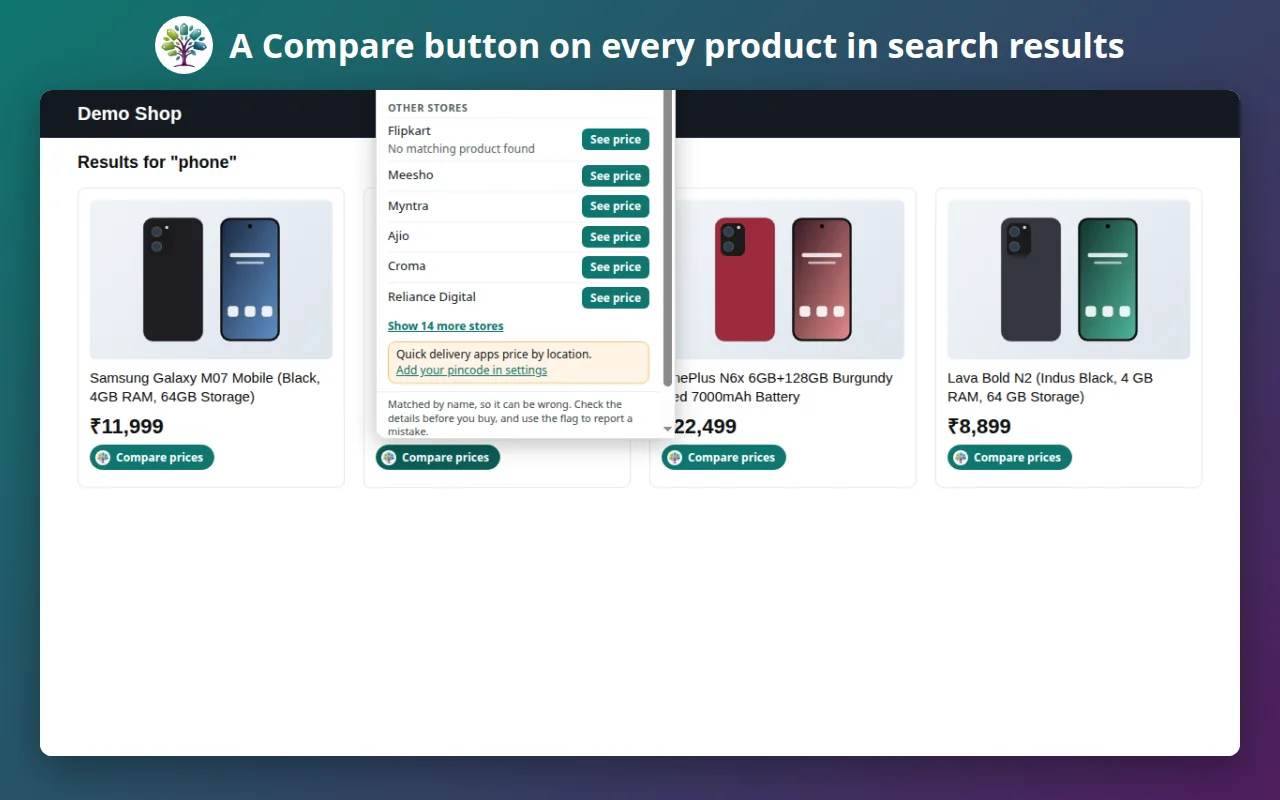
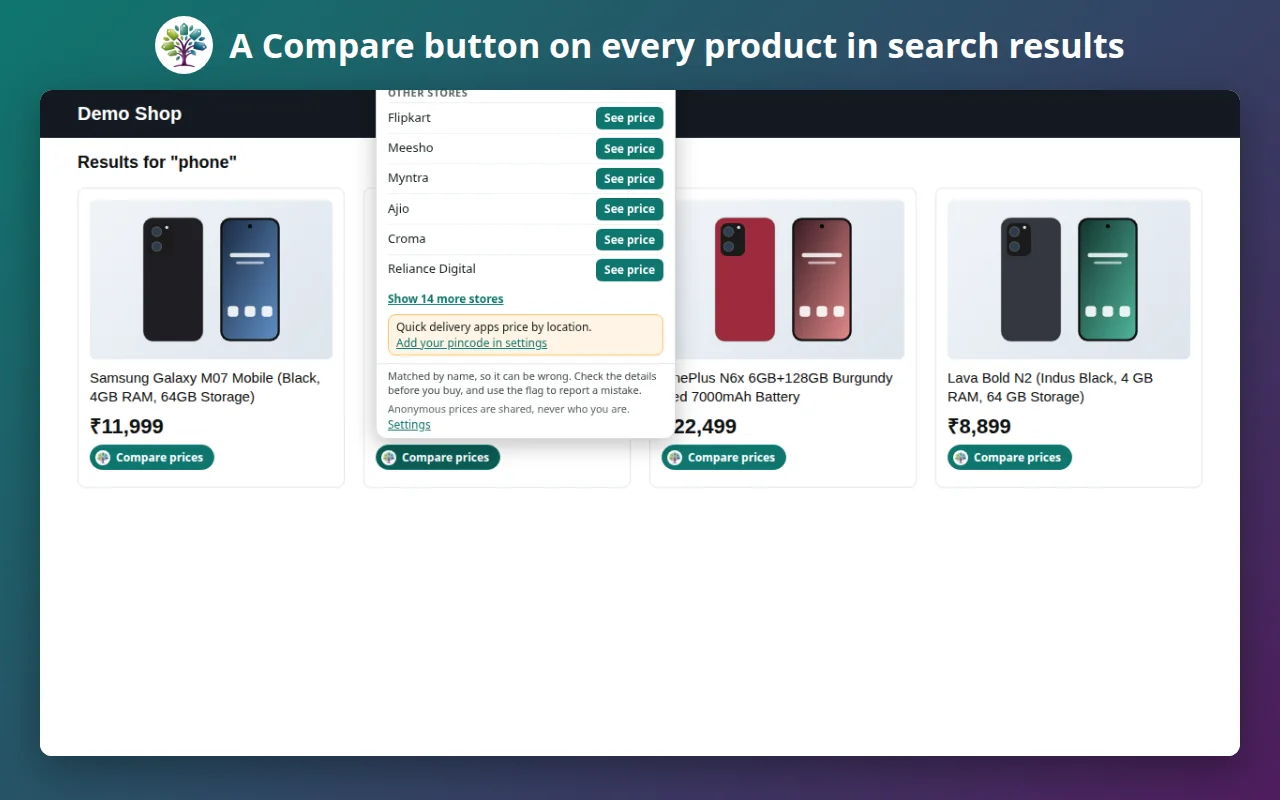
PryceHunt page: match the shipped extension (no live prices, no Telegram) and refresh the pictures
PryceHunt's "Show the price here instead of a link" is hidden until it can really work, Telegram alerts
are removed, and the box's wording changed, so the page now says only what the extension does.

- "Check other stores in one click" (was "See other stores' prices without leaving the page"): the box
  lists the other stores; pressing one opens that store's page searching for the same product; on the
  grocery apps PryceHunt opens the exact page once people who share prices have confirmed it (said to
  start small and grow). No live prices, no "likely the same product" labels.
- Share: "Share a product with family and friends": WhatsApp, copy or save the picture; no Telegram.
- Alerts: the Telegram bullet is gone; the sale watch text no longer offers other sites; the answer on
  alerts and a closed browser says what really happens (a notification while the browser is open).
- Settings text: price sharing is on by default and the one exception; price alerts, sale dates and your
  area are separate switches.
- Matches: the "likely the same product" / "similar" wording is replaced by "a store's results can be wrong,
  check the details and use the flag". "Not affiliated with any store or with Telegram" is now "any store".
- Money: the page no longer says PryceHunt may earn a commission from a cheaper store; no affiliate account
  is set up and every link is plain today, so it says that, and that any future affiliate link would be added
[…]

Changed region(s): [[0.2812, 0.0938, 0.5312, 0.5625]]

diff --git a/prycehunt/index.html b/prycehunt/index.html
@@ -4,14 +4,14 @@
 <meta charset="utf-8">
 <meta name="viewport" content="width=device-width, initial-scale=1">
 <title>PryceHunt: compare prices across Indian stores | Purple Wonton</title>
-<meta name="description" content="PryceHunt is a Chrome and Edge extension that shows what the product you are viewing costs at other Indian stores, with price history, honest sale facts and price-drop alerts. No account, no ads, no tracking.">
+<meta name="description" content="PryceHunt is a Chrome and Edge extension that takes you from a product to the same product at other Indian stores in one click, with price history, honest sale facts and price-drop alerts. No account, no ads, no tracking.">
 <link rel="canonical" href="https://www.purplewonton.com/prycehunt/">
 
 <link rel="icon" href="../assets/favicon-32.png" sizes="32x32">
 <link rel="apple-touch-icon" href="../assets/apple-touch-icon.png">
 <meta property="og:type" content="website">
 <meta property="og:title" content="PryceHunt: compare prices across Indian stores | Purple Wonton">
-<meta property="og:description" content="PryceHunt is a Chrome and Edge extension that shows what the product you are viewing costs at other Indian stores, with price history, honest sale facts and price-drop alerts. No account, no ads, no tracking.">
+<meta property="og:description" content="PryceHunt is a Chrome and Edge extension that takes you from a product to the same product at other Indian stores in one click, with price history, honest sale facts and price-drop alerts. No account, no ads, no tracking.">
 <meta property="og:url" content="https://www.purplewonton.com/prycehunt/">
 <meta property="og:image" content="https://www.purplewonton.com/assets/og-prycehunt.jpg">
 <meta property="og:site_name" content="Purple Wonton">
@@ -19,7 +19,7 @@
 <meta name="twitter:card" content="summary_large_image">
 <meta name="robots" content="index, follow">
 <meta name="theme-color" content="#7140e0">
-<script type="application/ld+json">{"@context": "https://schema.org", "@graph": [{"@type": "Organization", "@id": "https://www.purplewonton.com/#org", "name": "Purple Wonton", "url": "https://www.purplewonton.com/", "logo": "https://www.purplewonton.com/assets/mark.png", "email": "support@purplewonton.com", "description": "Purple Wonton is a technology studio in Bengaluru, India, building software, AI and automation products.", "address": {"@type": "PostalAddress", "addressLocality": "Bengaluru", "addressRegion": "Karnataka", "addressCountry": "IN"}}, {"@type": "SoftwareApplication", "name": "PryceHunt: price comparison for Indian stores", "url": "https://www.purplewonton.com/prycehunt/", "inLanguage": "en", "applicationCategory": "ShoppingApplication", "operatingSystem": "Chrome or Edge on Windows, macOS, Linux and ChromeOS", "description": "PryceHunt is a Chrome and Edge extension that shows what the product you are viewing costs at other Indian stores, with price history, honest sale facts and price-drop alerts. No account, no ads, no tracking.", "image": "https://www.purplewonton.com/assets/og-prycehunt.jpg", "screenshot": "https://www.purplewonton.com/assets/shots/prycehunt/comparison-box.webp", "publisher": {"@id": "https://www.purplewonton.com/#org"}, "offers": {"@type": "Offer", "name": "Free during launch", "price": "0", "priceCurrency": "INR"}}, {"@type": "FAQPage", "inLanguage": "en", "mainEntity": [{"@type": "Question", "name": "Is PryceHunt free?", "acceptedAnswer": {"@type": "Answer", "text": "Yes, while it is being launched. If a paid plan with higher limits comes later, we will tell you well before anything changes."}}, {"@type": "Question", "name": "Which browsers does it work in?", "acceptedAnswer": {"@type": "Answer", "text": "Chrome and Edge on a computer. Other browsers may come later."}}, {"@type": "Question", "name": "Do I need an account?", "acceptedAnswer": {"@type": "Answer", "text": "No. You never sign in, and your settings stay in your browser."}}, {"@type": "Question", "name": "How accurate are the matches?", "acceptedAnswer": {"@type": "Answer", "text": "PryceHunt matches products by name, so it can be wrong: a different size, colour or model can look the same. It labels each match as “likely the same product” or “similar: check details”, and you can flag a wrong match or price."}}, {"@type": "Question", "name": "Does PryceHunt see what I browse?", "acceptedAnswer": {"@type": "Answer", "text": "On the shopping sites it works on, it reads the product name and price on the page you are viewing, on your computer. With anonymous price sharing, which is on by default and can be switched off in Settings, it sends the store, product code, price and day of the products you view, never who you are, your pincode or the page address. Other features that send anything are off until you switch them on."}}, {"@type": "Question", "name": "Can I switch off price sharing?", "acceptedAnswer": {"@type": "Answer", "text": "Yes. Open PryceHunt's settings, go to Privacy and data, and untick “Share anonymous prices”. The welcome screen shown at install explains what it sends."}}, {"@type": "Question", "name": "Why can't alerts arrive while my browser is closed?", "acceptedAnswer": {"@type": "Answer", "text": "The price checks run in your browser, so they need it open. You can also let PryceHunt watch for you while the browser is closed, using prices that PryceHunt users share anonymously, and receive alerts on Telegram; this can miss some drops."}}, {"@type": "Question", "name": "Does PryceHunt earn money from my purchases?", "acceptedAnswer": {"@type": "Answer", "text": "It may. When you click “Go to this store” and the store is cheaper or has an offer, PryceHunt may open an affiliate link that earns us a commission at no cost to you. It says so next to the button, and the link is added only when you click."}}, {"@type": "Question", "name": "How do I get in touch?", "acceptedAnswer": {"@type": "Answer", "text": "Write to support@purplewonton.com."}}]}]}</script>
+<script type="application/ld+json">{"@context": "https://schema.org", "@graph": [{"@type": "Organization", "@id": "https://www.purplewonton.com/#org", "name": "Purple Wonton", "url": "https://www.purplewonton.com/", "logo": "https://www.purplewonton.com/assets/mark.png", "email": "support@purplewonton.com", "description": "Purple Wonton is a technology studio in Bengaluru, India, building software, AI and automation products.", "address": {"@type": "PostalAddress", "addressLocality": "Bengaluru", "addressRegion": "Karnataka", "addressCountry": "IN"}}, {"@type": "SoftwareApplication", "name": "PryceHunt: price comparison for Indian stores", "url": "https://www.purplewonton.com/prycehunt/", "inLanguage": "en", "applicationCategory": "ShoppingApplication", "operatingSystem": "Chrome or Edge on Windows, macOS, Linux and ChromeOS", "description": "PryceHunt is a Chrome and Edge extension that takes you from a product to the same product at other Indian stores in one click, with price history, honest sale facts and price-drop alerts. No account, no ads, no tracking.", "image": "https://www.purplewonton.com/assets/og-prycehunt.jpg", "screenshot": "https://www.purplewonton.com/assets/shots/prycehunt/comparison-box.webp", "publisher": {"@id": "https://www.purplewonton.com/#org"}, "offers": {"@type": "Offer", "name": "Free during launch", "price": "0", "priceCurrency": "INR"}}, {"@type": "FAQPage", "inLanguage": "en", "mainEntity": [{"@type": "Question", "name": "Is PryceHunt free?", "acceptedAnswer": {"@type": "Answer", "text": "Yes, while it is being launched. If a paid plan with higher limits comes later, we will tell you well before anything changes."}}, {"@type": "Question", "name": "Which browsers does it work in?", "acceptedAnswer": {"@type": "Answer", "text": "Chrome and Edge on a computer. Other browsers may come later."}}, {"@type": "Question", "name": "Do I need an account?", "acceptedAnswer": {"@type": "Answer", "text": "No. You never sign in, and your settings stay in your browser."}}, {"@type": "Question", "name": "How accurate are the matches?", "acceptedAnswer": {"@type": "Answer", "text": "PryceHunt finds products by name, so a store's results can be wrong: a different size, colour or model can look similar. Always check the details on the store's page before you buy, and use the flag to report a wrong match."}}, {"@type": "Question", "name": "Does PryceHunt see what I browse?", "acceptedAnswer": {"@type": "Answer", "text": "On the shopping sites it works on, it reads the product name and price on the page you are viewing, on your computer. With anonymous price sharing, which is on by default and can be switched off in Settings, it sends the store, product code, price and day of the products you view, never who you are, your pincode or the page address. Other features that send anything are off until you switch them on."}}, {"@type": "Question", "name": "Can I switch off price sharing?", "acceptedAnswer": {"@type": "Answer", "text": "Yes. Open PryceHunt's settings, go to Privacy and data, and untick “Share anonymous prices”. The welcome screen shown at install explains what it sends."}}, {"@type": "Question", "name": "Why can't alerts arrive while my browser is closed?", "acceptedAnswer": {"@type": "Answer", "text": "The price checks run in your browser, so they need it open. When it is, and you allowed notifications, PryceHunt shows a notification if the price drops."}}, {"@type": "Question", "name": "Does PryceHunt earn money from my purchases?", "acceptedAnswer": {"@type": "Answer", "text": "Not at the moment: every link PryceHunt opens is a plain link. If we ever add affiliate links, they would be added only when you click, only for stores whose rules allow it, and PryceHunt would say so next to the button."}}, {"@type": "Question", "name": "How do I get in touch?", "acceptedAnswer": {"@type": "Answer", "text": "Write to support@purplewonton.com."}}]}]}</script>
 <link rel="stylesheet" href="../assets/site.css">
 </head>
 <body>
@@ -43,23 +43,23 @@
   <div>
     <p class="title"><img src="../assets/prycehunt-icon.png" width="44" height="44" alt="">PryceHunt for Chrome and Edge</p>
     <h1>Compare prices across Indian stores, right on the page</h1>
-    <p class="lead">PryceHunt shows what the product you are looking at costs at other stores, how its price has moved, and whether that big discount is real. No account, no ads, no tracking: your pincode, settings and watch-list stay in your browser.</p>
+    <p class="lead">PryceHunt takes you from the product you are looking at to the same product at other stores in one click, shows how its price has moved, and whether that big discount is real. No account, no ads, no tracking: your pincode, settings and watch-list stay in your browser.</p>
     <div class="actions">
       <span class="btn" aria-disabled="true">Coming soon to the Chrome Web Store</span>
       <a class="btn ghost" href="#features">See what it does</a>
     </div>
   </div>
-  <img class="hero-shot" src="../assets/shots/prycehunt/comparison-box.webp?v=a1d2b999" width="1280" height="800" alt="PryceHunt&#x27;s comparison box on a product page, showing a cheaper price at another store">
+  <img class="hero-shot" src="../assets/shots/prycehunt/comparison-box.webp?v=b62420be" width="1280" height="800" alt="PryceHunt&#x27;s comparison box on a product page, with a button for each other store">
 </section>
 
 <div class="wrap" id="features">
   <section class="feature wide">
     <div>
-      <h2>See other stores' prices without leaving the page</h2>
-      <p>A small box under the price opens the comparison. Switch on “Show the price here instead of a link” and PryceHunt shows the other store's price in the box, marked “likely the same product” or “similar: check details”. You can switch that on or off right there.</p>
-      <ul class="points"><li>Live prices today for Amazon.in and Flipkart; the other stores open their own search</li><li>The cheapest store found is called out, and you can list the lowest price first</li><li>Quick-delivery apps are included, with prices per 100 g, per 100 ml or per piece</li></ul>
+      <h2>Check other stores in one click</h2>
+      <p>A small box under the price lists the other stores. Press a store's button and its page opens, searching for the same product. On the quick-delivery grocery apps, PryceHunt learns from people who share prices which page is exactly the same product, and then opens that page directly. That list starts small and grows as more people use PryceHunt.</p>
+      <ul class="points"><li>Amazon.in, Flipkart, Meesho, Myntra, Ajio, Croma and the grocery apps Blinkit, Zepto, BigBasket and Swiggy Instamart</li><li>Grocery searches keep the brand and pack size, and unit prices show per 100 g, per 100 ml or per piece</li><li>You choose which stores to show, and in what order</li></ul>
     </div>
-    <div class="shot-wrap wide"><img src="../assets/shots/prycehunt/comparison-box.webp?v=a1d2b999" width="1280" height="800" loading="lazy" alt="PryceHunt&#x27;s comparison box on a product page, showing a cheaper price at another store"></div>
+    <div class="shot-wrap wide"><img src="../assets/shots/prycehunt/comparison-box.webp?v=b62420be" width="1280" height="800" loading="lazy" alt="PryceHunt&#x27;s comparison box on a product page, with a button for each other store"></div>
   </section>
   <section class="feature wide flip">
     <div>
@@ -67,7 +67,7 @@
       <p>On search, category and home pages, and on the similar items of a product page, every product gets a small “Compare prices” button. Nothing is fetched until you press one.</p>
       <ul class="points"><li>Amazon.in, Flipkart, Meesho, Myntra, Ajio and Croma</li><li>Blinkit, Zepto, BigBasket and Swiggy Instamart</li><li>Pause it for 30 minutes to 23 hours, on one site or on all sites</li></ul>
     </div>
-    <div class="shot-wrap wide"><img src="../assets/shots/prycehunt/compare-buttons.webp?v=eef547c0" width="1280" height="800" loading="lazy" alt="A search results page where every product has a small Compare prices button, and one comparison is open"></div>
+    <div class="shot-wrap wide"><img src="../assets/shots/prycehunt/compare-buttons.webp?v=e3258f28" width="1280" height="800" loading="lazy" alt="A search results page where every product has a small Compare prices button, and one comparison is open"></div>
   </section>
   <section class="feature wide">
     <div>
@@ -75,31 +75,31 @@
       <p>PryceHunt remembers the prices you have seen and charts them. It shows the lowest price seen, checks a “70% off” claim against what the product has usually cost, and during big sales such as Diwali tells you what the product cost before the sale began.</p>
       <ul class="points"><li>No verdict and no pressure: it states the facts and you decide</li><li>Sale dates are the usual timing, because shops announce theirs late; you can choose the seasons to follow and add your own</li><li>Shared history, built from prices that PryceHunt users share anonymously (on by default; you can switch it off)</li></ul>
     </div>
-    <div class="shot-wrap wide"><img src="../assets/shots/prycehunt/sale-facts.webp?v=ca1586d4" width="1280" height="800" loading="lazy" alt="PryceHunt&#x27;s price history chart, the check of a 70 percent off claim and the price before a sale"></div>
+    <div class="shot-wrap wide"><img src="../assets/shots/prycehunt/sale-facts.webp?v=61e355aa" width="1280" height="800" loading="lazy" alt="PryceHunt&#x27;s price history chart, the check of a 70 percent off claim and the price before a sale"></div>
   </section>
   <section class="feature wide flip">
     <div>
       <h2>Your choices, in clear settings</h2>
-      <p>Live prices, alerts, Telegram and every other feature that contacts anything are off until you switch them on, and each setting says what is sent. Anonymous price sharing is the one exception: it is on by default, and you can switch it off. Choose your stores and their order, where the box appears, and how it behaves.</p>
-      <ul class="points"><li>No account to make</li><li>Live prices, alerts, price sharing and Telegram are separate switches</li><li>Erase everything with one button</li></ul>
+      <p>Everything else that contacts anything is off until you switch it on, and each setting says what is sent. Anonymous price sharing is the one exception: it is on by default, and you can switch it off. Choose your stores and their order, where the box appears, and how it behaves.</p>
+      <ul class="points"><li>No account to make</li><li>Price sharing, price alerts, sale dates and your area are separate switches</li><li>Erase everything with one button</li></ul>
     </div>
     <div class="shot-wrap wide"><img src="../assets/shots/prycehunt/settings.webp?v=1f218a94" width="1280" height="800" loading="lazy" alt="PryceHunt&#x27;s settings page, divided into General, Stores, Prices and alerts, and Privacy and data"></div>
   </section>
   <section class="feature wide">
     <div>
       <h2>Pause, watch and get alerts</h2>
-      <p>The toolbar menu pauses PryceHunt for a while, keeps your watch-list and lets you set your pincode. Set an alert price or range for a product, choose which sites to watch during a sale, and get a notification when it drops.</p>
-      <ul class="points"><li>Alerts are checked while your browser is open. Some stores, such as Amazon.in, do not allow automatic checks, so those prices update when you open the product</li><li>Optional alerts on Telegram, to reach your phone</li></ul>
+      <p>The toolbar menu pauses PryceHunt for a while, keeps your watch-list and lets you set your pincode. Set an alert price or range for a product, choose when to watch it during a sale season, and get a notification when it drops.</p>
+      <ul class="points"><li>Alerts are checked while your browser is open. Some stores, such as Amazon.in, do not allow automatic checks, so those prices update when you open the product</li></ul>
     </div>
     <div class="shot-wrap wide"><img src="../assets/shots/prycehunt/toolbar-menu.webp?v=cb71aa10" width="1280" height="800" loading="lazy" alt="PryceHunt&#x27;s toolbar menu, with pause, the watch-list and a pincode box"></div>
   </section>
   <section class="feature wide flip">
     <div>
-      <h2>Share a comparison with family and friends</h2>
-      <p>Pressing Share makes a picture and a short message of the comparison, ready for WhatsApp or Telegram. It contains the product and prices only, nothing about you.</p>
+      <h2>Share a product with family and friends</h2>
+      <p>Pressing Share makes a picture and a short message about the product, ready for WhatsApp, or you can copy or save the picture. It contains the product and its price only, nothing about you.</p>
       
     </div>
-    <div class="shot-wrap wide"><img src="../assets/shots/prycehunt/share-card.webp?v=2b724920" width="1280" height="800" loading="lazy" alt="A PryceHunt share card comparing the price of a phone at three stores"></div>
+    <div class="shot-wrap wide"><img src="../assets/shots/prycehunt/share-card.webp?v=57a2c881" width="1280" height="800" loading="lazy" alt="A PryceHunt share card for a phone at Flipkart, with its price and the lowest-price note"></div>
   </section>
 
   <section class="promise">
@@ -108,7 +108,7 @@
   </section>
 
   <section class="feature-lists">
-    <div><h2>Good to know</h2><ul class="points"><li>Products are matched by name, so a match can be wrong. Always check the details before you buy, and flag a wrong match or price.</li><li>When you click “Go to this store”, PryceHunt may add an affiliate link that earns us a commission at no cost to you, and it says so next to the button.</li><li>PryceHunt is independent and is not affiliated with any store or with Telegram.</li></ul></div>
+    <div><h2>Good to know</h2><ul class="points"><li>Products are found by name, so a store's results can be wrong. Always check the details on the store's page before you buy, and flag a wrong match.</li><li>Every link PryceHunt opens is a plain link today. If we ever add affiliate links that earn us a commission at no cost to you, they would be added only when you click, only for stores whose rules allow it, and we would say so next to the button.</li><li>PryceHunt is independent and is not affiliated with any store.</li></ul></div>
     <div><h2>Works on</h2><p>Amazon.in, Flipkart, Meesho, Myntra, Ajio, Croma, Blinkit, Zepto, BigBasket and Swiggy Instamart. More Indian stores are added over time.</p>
          <h2 style="margin-top:28px">Free during launch</h2><p>PryceHunt is free while it is being launched. If a paid plan with higher limits is introduced later, we will say so well before anything changes.</p>
          <div class="actions"><span class="btn" aria-disabled="true">Coming soon to the Chrome Web Store</span></div></div>
@@ -119,11 +119,11 @@
     <details><summary>Is PryceHunt free?</summary><p>Yes, while it is being launched. If a paid plan with higher limits comes later, we will tell you well before anything changes.</p></details>
     <details><summary>Which browsers does it work in?</summary><p>Chrome and Edge on a computer. Other browsers may come later.</p></details>
     <details><summary>Do I need an account?</summary><p>No. You never sign in, and your settings stay in your browser.</p></details>
-    <details><summary>How accurate are the matches?</summary><p>PryceHunt matches products by name, so it can be wrong: a different size, colour or model can look the same. It labels each match as “likely the same product” or “similar: check details”, and you can flag a wrong match or price.</p></details>
+    <details><summary>How accurate are the matches?</summary><p>PryceHunt finds products by name, so a store's results can be wrong: a different size, colour or model can look similar. Always check the details on the store's page before you buy, and use the flag to report a wrong match.</p></details>
     <details><summary>Does PryceHunt see what I browse?</summary><p>On the shopping sites it works on, it reads the product name and price on the page you are viewing, on your computer. With anonymous price sharing, which is on by default and can be switched off in Settings, it sends the store, product code, price and day of the products you view, never who you are, your pincode or the page address. Other features that send anything are off until you switch them on.</p></details>
     <details><summary>Can I switch off price sharing?</summary><p>Yes. Open PryceHunt's settings, go to Privacy and data, and untick “Share anonymous prices”. The welcome screen shown at install explains what it sends.</p></details>
-    <details><summary>Why can't alerts arrive while my browser is closed?</summary><p>The price checks run in your browser, so they need it open. You can also let PryceHunt watch for you while the browser is closed, using prices that PryceHunt users share anonymously, and receive alerts on Telegram; this can miss some drops.</p></details>
-    <details><summary>Does PryceHunt earn money from my purchases?</summary><p>It may. When you click “Go to this store” and the store is cheaper or has an offer, PryceHunt may open an affiliate link that earns us a commission at no cost to you. It says so next to the button, and the link is added only when you click.</p></details>
+    <details><summary>Why can't alerts arrive while my browser is closed?</summary><p>The price checks run in your browser, so they need it open. When it is, and you allowed notifications, PryceHunt shows a notification if the price drops.</p></details>
+    <details><summary>Does PryceHunt earn money from my purchases?</summary><p>Not at the moment: every link PryceHunt opens is a plain link. If we ever add affiliate links, they would be added only when you click, only for stores whose rules allow it, and PryceHunt would say so next to the button.</p></details>
     <details><summary>How do I get in touch?</summary><p>Write to <a href="mailto:support@purplewonton.com">support@purplewonton.com</a>.</p></details>
     <p class="fine" style="margin-top:20px">More answers on the <a href="../support/">support page</a>.</p>
   </section>

diff --git a/ja/index.html b/ja/index.html
@@ -99,13 +99,13 @@
       <img class="icon" src="../assets/prycehunt-icon.png" width="56" height="56" alt="">
       <p class="kind">Chrome and Edge extension</p>
       <h3 class="product-name">PryceHunt</h3>
-      <p class="lead">Looking at a product and wondering whether another store sells it for less? PryceHunt shows the price at other Indian stores right on the page, with price history and honest facts about sales. No account, no ads, no tracking.</p>
+      <p class="lead">Looking at a product and wondering whether another store sells it for less? PryceHunt puts a button for each Indian store right on the page, so you can check in one click, with price history and honest facts about sales. No account, no ads, no tracking.</p>
       <div class="actions">
         <a class="btn" href="../prycehunt/">PryceHunt を見る</a>
         <span class="fine">Free during launch</span>
       </div>
     </div>
-    <img class="shot wide" src="../assets/shots/prycehunt/comparison-box.webp?v=a1d2b999" width="1280" height="800" loading="lazy" alt="PryceHunt&#x27;s comparison box on a product page, with a cheaper price found at another store">
+    <img class="shot wide" src="../assets/shots/prycehunt/comparison-box.webp?v=b62420be" width="1280" height="800" loading="lazy" alt="PryceHunt&#x27;s comparison box on a product page, with a button for each other store">
   </article>
   <p class="more">新しい製品を開発中です。次につくってほしいもののアイデアは <a href="mailto:support@purplewonton.com">support@purplewonton.com</a> までお寄せください。</p>
 </section>

diff --git a/fr/index.html b/fr/index.html
@@ -99,13 +99,13 @@
       <img class="icon" src="../assets/prycehunt-icon.png" width="56" height="56" alt="">
       <p class="kind">Chrome and Edge extension</p>
       <h3 class="product-name">PryceHunt</h3>
-      <p class="lead">Looking at a product and wondering whether another store sells it for less? PryceHunt shows the price at other Indian stores right on the page, with price history and honest facts about sales. No account, no ads, no tracking.</p>
+      <p class="lead">Looking at a product and wondering whether another store sells it for less? PryceHunt puts a button for each Indian store right on the page, so you can check in one click, with price history and honest facts about sales. No account, no ads, no tracking.</p>
       <div class="actions">
         <a class="btn" href="../prycehunt/">Découvrir PryceHunt</a>
         <span class="fine">Free during launch</span>
       </div>
     </div>
-    <img class="shot wide" src="../assets/shots/prycehunt/comparison-box.webp?v=a1d2b999" width="1280" height="800" loading="lazy" alt="PryceHunt&#x27;s comparison box on a product page, with a cheaper price found at another store">
+    <img class="shot wide" src="../assets/shots/prycehunt/comparison-box.webp?v=b62420be" width="1280" height="800" loading="lazy" alt="PryceHunt&#x27;s comparison box on a product page, with a button for each other store">
   </article>
   <p class="more">D’autres produits sont en préparation. Vos idées pour la suite sont les bienvenues à <a href="mailto:support@purplewonton.com">support@purplewonton.com</a>.</p>
 </section>

diff --git a/de/index.html b/de/index.html
@@ -99,13 +99,13 @@
       <img class="icon" src="../assets/prycehunt-icon.png" width="56" height="56" alt="">
       <p class="kind">Chrome and Edge extension</p>
       <h3 class="product-name">PryceHunt</h3>
-      <p class="lead">Looking at a product and wondering whether another store sells it for less? PryceHunt shows the price at other Indian stores right on the page, with price history and honest facts about sales. No account, no ads, no tracking.</p>
+      <p class="lead">Looking at a product and wondering whether another store sells it for less? PryceHunt puts a button for each Indian store right on the page, so you can check in one click, with price history and honest facts about sales. No account, no ads, no tracking.</p>
       <div class="actions">
         <a class="btn" href="../prycehunt/">PryceHunt entdecken</a>
         <span class="fine">Free during launch</span>
       </div>
     </div>
-    <img class="shot wide" src="../assets/shots/prycehunt/comparison-box.webp?v=a1d2b999" width="1280" height="800" loading="lazy" alt="PryceHunt&#x27;s comparison box on a product page, with a cheaper price found at another store">
+    <img class="shot wide" src="../assets/shots/prycehunt/comparison-box.webp?v=b62420be" width="1280" height="800" loading="lazy" alt="PryceHunt&#x27;s comparison box on a product page, with a button for each other store">
   </article>
   <p class="more">Weitere Produkte sind in Arbeit. Ideen, was wir als Nächstes bauen sollen, gerne an <a href="mailto:support@purplewonton.com">support@purplewonton.com</a>.</p>
 </section>

diff --git a/es/index.html b/es/index.html
@@ -99,13 +99,13 @@
       <img class="icon" src="../assets/prycehunt-icon.png" width="56" height="56" alt="">
       <p class="kind">Chrome and Edge extension</p>
       <h3 class="product-name">PryceHunt</h3>
-      <p class="lead">Looking at a product and wondering whether another store sells it for less? PryceHunt shows the price at other Indian stores right on the page, with price history and honest facts about sales. No account, no ads, no tracking.</p>
+      <p class="lead">Looking at a product and wondering whether another store sells it for less? PryceHunt puts a button for each Indian store right on the page, so you can check in one click, with price history and honest facts about sales. No account, no ads, no tracking.</p>
       <div class="actions">
         <a class="btn" href="../prycehunt/">Descubrir PryceHunt</a>
         <span class="fine">Free during launch</span>
       </div>
     </div>
-    <img class="shot wide" src="../assets/shots/prycehunt/comparison-box.webp?v=a1d2b999" width="1280" height="800" loading="lazy" alt="PryceHunt&#x27;s comparison box on a product page, with a cheaper price found at another store">
+    <img class="shot wide" src="../assets/shots/prycehunt/comparison-box.webp?v=b62420be" width="1280" height="800" loading="lazy" alt="PryceHunt&#x27;s comparison box on a product page, with a button for each other store">
   </article>
   <p class="more">Hay más productos en camino. Tus ideas sobre qué crear después son bienvenidas en <a href="mailto:support@purplewonton.com">support@purplewonton.com</a>.</p>
 </section>

diff --git a/index.html b/index.html
@@ -99,13 +99,13 @@
       <img class="icon" src="assets/prycehunt-icon.png" width="56" height="56" alt="">
       <p class="kind">Chrome and Edge extension</p>
       <h3 class="product-name">PryceHunt</h3>
-      <p class="lead">Looking at a product and wondering whether another store sells it for less? PryceHunt shows the price at other Indian stores right on the page, with price history and honest facts about sales. No account, no ads, no tracking.</p>
+      <p class="lead">Looking at a product and wondering whether another store sells it for less? PryceHunt puts a button for each Indian store right on the page, so you can check in one click, with price history and honest facts about sales. No account, no ads, no tracking.</p>
       <div class="actions">
         <a class="btn" href="prycehunt/">Explore PryceHunt</a>
         <span class="fine">Free during launch</span>
       </div>
     </div>
-    <img class="shot wide" src="assets/shots/prycehunt/comparison-box.webp?v=a1d2b999" width="1280" height="800" loading="lazy" alt="PryceHunt&#x27;s comparison box on a product page, with a cheaper price found at another store">
+    <img class="shot wide" src="assets/shots/prycehunt/comparison-box.webp?v=b62420be" width="1280" height="800" loading="lazy" alt="PryceHunt&#x27;s comparison box on a product page, with a button for each other store">
   </article>
   <p class="more">More products are in the works. Ideas for what we should build next are welcome at <a href="mailto:support@purplewonton.com">support@purplewonton.com</a>.</p>
 </section>
